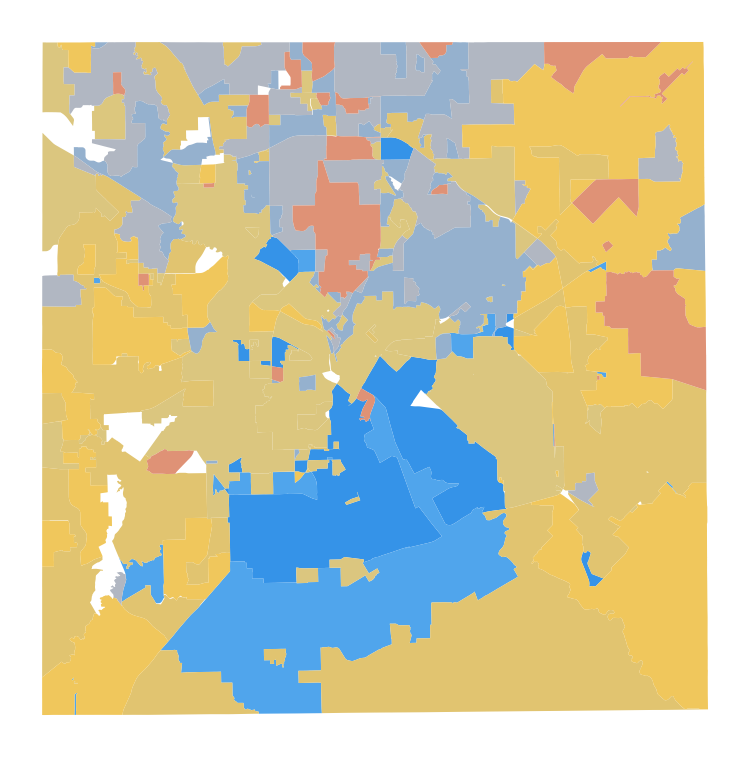
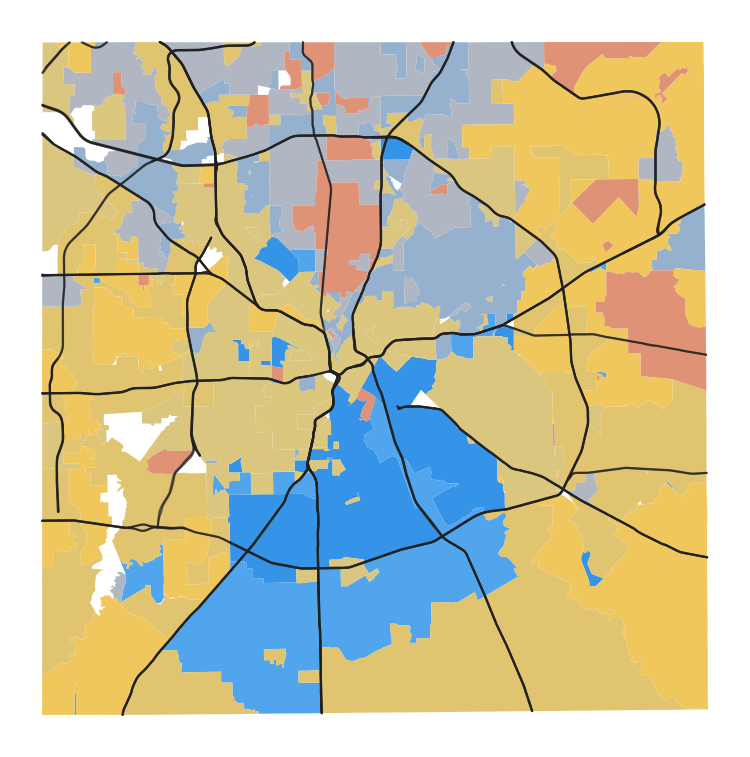
Atlas: name Dallas County's nine blocs; draw major highways on its map
Blocs, most to least Democratic: South Dallas, The Best Southwest,
Pleasant Grove and West Oak Cliff, The Urban Core, Blue-Collar Suburbs,
East Dallas and White Rock, North Dallas, Middle-Class Suburbs, The Park
Cities. The Dallas map now carries the county's freeways and tollways
(TIGER primary roads, S1100).

diff --git a/research/_atlas_fused_panels.html b/research/_atlas_fused_panels.html
@@ -770,15 +770,15 @@
     <figure class="atlas-pca"><img loading="lazy" src="../files/images/research/atlas-fused/dallas_pca.gif" alt="Rotating three-dimensional plot of Dallas County precincts on their first three Jensen-Shannon principal coordinates, colored by voting bloc, with numbered bloc centroids.">
       <figcaption>Precincts on the first three principal coordinates of their voting (PC1 34% of variation). Numbers mark bloc centers. <strong>Click the plot</strong> to color the same points by density, race and education.</figcaption></figure>
     <ol class="atlas-blocs">
-      <li><span class="bloc-swatch" style="background:#3593E8;color:#fff">1</span><span class="bloc-name">Bloc 1</span><span class="bloc-meta">70 precincts &middot; Biden 2020 94%</span></li>
-      <li><span class="bloc-swatch" style="background:#50A5EC;color:#111">2</span><span class="bloc-name">Bloc 2</span><span class="bloc-meta">55 precincts &middot; Biden 2020 86%</span></li>
-      <li><span class="bloc-swatch" style="background:#DBC67F;color:#111">3</span><span class="bloc-name">Bloc 3</span><span class="bloc-meta">109 precincts &middot; Biden 2020 82%</span></li>
-      <li><span class="bloc-swatch" style="background:#DCC77E;color:#111">4</span><span class="bloc-name">Bloc 4</span><span class="bloc-meta">90 precincts &middot; Biden 2020 76%</span></li>
-      <li><span class="bloc-swatch" style="background:#E1C470;color:#111">5</span><span class="bloc-name">Bloc 5</span><span class="bloc-meta">110 precincts &middot; Biden 2020 70%</span></li>
-      <li><span class="bloc-swatch" style="background:#95B1CE;color:#111">6</span><span class="bloc-name">Bloc 6</span><span class="bloc-meta">101 precincts &middot; Biden 2020 66%</span></li>
-      <li><span class="bloc-swatch" style="background:#B1B7C2;color:#111">7</span><span class="bloc-name">Bloc 7</span><span class="bloc-meta">103 precincts &middot; Biden 2020 56%</span></li>
-      <li><span class="bloc-swatch" style="background:#F0C75C;color:#111">8</span><span class="bloc-name">Bloc 8</span><span class="bloc-meta">131 precincts &middot; Biden 2020 56%</span></li>
-      <li><span class="bloc-swatch" style="background:#DF9276;color:#111">9</span><span class="bloc-name">Bloc 9</span><span class="bloc-meta">51 precincts &middot; Biden 2020 40%</span></li>
+      <li><span class="bloc-swatch" style="background:#3593E8;color:#fff">1</span><span class="bloc-name">South Dallas</span><span class="bloc-meta">70 precincts &middot; Biden 2020 94%</span></li>
+      <li><span class="bloc-swatch" style="background:#50A5EC;color:#111">2</span><span class="bloc-name">The Best Southwest</span><span class="bloc-meta">55 precincts &middot; Biden 2020 86%</span></li>
+      <li><span class="bloc-swatch" style="background:#DBC67F;color:#111">3</span><span class="bloc-name">Pleasant Grove and West Oak Cliff</span><span class="bloc-meta">109 precincts &middot; Biden 2020 82%</span></li>
+      <li><span class="bloc-swatch" style="background:#DCC77E;color:#111">4</span><span class="bloc-name">The Urban Core</span><span class="bloc-meta">90 precincts &middot; Biden 2020 76%</span></li>
+      <li><span class="bloc-swatch" style="background:#E1C470;color:#111">5</span><span class="bloc-name">Blue-Collar Suburbs</span><span class="bloc-meta">110 precincts &middot; Biden 2020 70%</span></li>
+      <li><span class="bloc-swatch" style="background:#95B1CE;color:#111">6</span><span class="bloc-name">East Dallas and White Rock</span><span class="bloc-meta">101 precincts &middot; Biden 2020 66%</span></li>
+      <li><span class="bloc-swatch" style="background:#B1B7C2;color:#111">7</span><span class="bloc-name">North Dallas</span><span class="bloc-meta">103 precincts &middot; Biden 2020 56%</span></li>
+      <li><span class="bloc-swatch" style="background:#F0C75C;color:#111">8</span><span class="bloc-name">Middle-Class Suburbs</span><span class="bloc-meta">131 precincts &middot; Biden 2020 56%</span></li>
+      <li><span class="bloc-swatch" style="background:#DF9276;color:#111">9</span><span class="bloc-name">The Park Cities</span><span class="bloc-meta">51 precincts &middot; Biden 2020 40%</span></li>
     </ol>
     <figure class="atlas-state-map"><div class="atlas-zoom"><img loading="lazy" src="../files/images/research/atlas-fused/dallas_map.png" data-hi="../files/images/research/atlas-fused/dallas_map_hi.png" data-lines="../files/images/research/atlas/dallas_lines.png" data-labels="../files/images/research/atlas/dallas_labels.json" data-index="../files/images/research/atlas-profiles/dallas_index.png" data-profile="../files/images/research/atlas-profiles/dallas_profile.json" alt="Map of Dallas County precincts colored by voting bloc (9 blocs)." draggable="false"></div><figcaption>Scroll, pinch or double-click to zoom; drag to pan. Zoom in for boundaries and town names. <strong>Click a bloc</strong> in the list or on the map for its demographic profile.</figcaption></figure>
   </div>

diff --git a/research/_atlas_panels.html b/research/_atlas_panels.html
@@ -770,15 +770,15 @@
     <figure class="atlas-pca"><img loading="lazy" src="../files/images/research/atlas/dallas_pca.gif" alt="Rotating three-dimensional plot of Dallas County precincts on their first three Jensen-Shannon principal coordinates, colored by voting bloc, with numbered bloc centroids.">
       <figcaption>Precincts on the first three principal coordinates of their voting (PC1 34% of variation). Numbers mark bloc centers. <strong>Click the plot</strong> to color the same points by density, race and education.</figcaption></figure>
     <ol class="atlas-blocs">
-      <li><span class="bloc-swatch" style="background:#C682EC;color:#111">1</span><span class="bloc-name">Bloc 1</span><span class="bloc-meta">70 precincts &middot; Biden 2020 94%</span></li>
-      <li><span class="bloc-swatch" style="background:#749CF2;color:#111">2</span><span class="bloc-name">Bloc 2</span><span class="bloc-meta">55 precincts &middot; Biden 2020 86%</span></li>
-      <li><span class="bloc-swatch" style="background:#00B1DB;color:#111">3</span><span class="bloc-name">Bloc 3</span><span class="bloc-meta">109 precincts &middot; Biden 2020 82%</span></li>
-      <li><span class="bloc-swatch" style="background:#00BAAF;color:#111">4</span><span class="bloc-name">Bloc 4</span><span class="bloc-meta">90 precincts &middot; Biden 2020 76%</span></li>
-      <li><span class="bloc-swatch" style="background:#00B874;color:#111">5</span><span class="bloc-name">Bloc 5</span><span class="bloc-meta">110 precincts &middot; Biden 2020 70%</span></li>
-      <li><span class="bloc-swatch" style="background:#6CAF20;color:#111">6</span><span class="bloc-name">Bloc 6</span><span class="bloc-meta">101 precincts &middot; Biden 2020 66%</span></li>
-      <li><span class="bloc-swatch" style="background:#ACA100;color:#111">7</span><span class="bloc-name">Bloc 7</span><span class="bloc-meta">103 precincts &middot; Biden 2020 56%</span></li>
-      <li><span class="bloc-swatch" style="background:#D58F35;color:#111">8</span><span class="bloc-name">Bloc 8</span><span class="bloc-meta">131 precincts &middot; Biden 2020 56%</span></li>
-      <li><span class="bloc-swatch" style="background:#EC7D82;color:#111">9</span><span class="bloc-name">Bloc 9</span><span class="bloc-meta">51 precincts &middot; Biden 2020 40%</span></li>
+      <li><span class="bloc-swatch" style="background:#C682EC;color:#111">1</span><span class="bloc-name">South Dallas</span><span class="bloc-meta">70 precincts &middot; Biden 2020 94%</span></li>
+      <li><span class="bloc-swatch" style="background:#749CF2;color:#111">2</span><span class="bloc-name">The Best Southwest</span><span class="bloc-meta">55 precincts &middot; Biden 2020 86%</span></li>
+      <li><span class="bloc-swatch" style="background:#00B1DB;color:#111">3</span><span class="bloc-name">Pleasant Grove and West Oak Cliff</span><span class="bloc-meta">109 precincts &middot; Biden 2020 82%</span></li>
+      <li><span class="bloc-swatch" style="background:#00BAAF;color:#111">4</span><span class="bloc-name">The Urban Core</span><span class="bloc-meta">90 precincts &middot; Biden 2020 76%</span></li>
+      <li><span class="bloc-swatch" style="background:#00B874;color:#111">5</span><span class="bloc-name">Blue-Collar Suburbs</span><span class="bloc-meta">110 precincts &middot; Biden 2020 70%</span></li>
+      <li><span class="bloc-swatch" style="background:#6CAF20;color:#111">6</span><span class="bloc-name">East Dallas and White Rock</span><span class="bloc-meta">101 precincts &middot; Biden 2020 66%</span></li>
+      <li><span class="bloc-swatch" style="background:#ACA100;color:#111">7</span><span class="bloc-name">North Dallas</span><span class="bloc-meta">103 precincts &middot; Biden 2020 56%</span></li>
+      <li><span class="bloc-swatch" style="background:#D58F35;color:#111">8</span><span class="bloc-name">Middle-Class Suburbs</span><span class="bloc-meta">131 precincts &middot; Biden 2020 56%</span></li>
+      <li><span class="bloc-swatch" style="background:#EC7D82;color:#111">9</span><span class="bloc-name">The Park Cities</span><span class="bloc-meta">51 precincts &middot; Biden 2020 40%</span></li>
     </ol>
     <figure class="atlas-state-map"><div class="atlas-zoom"><img loading="lazy" src="../files/images/research/atlas/dallas_map.png" data-hi="../files/images/research/atlas/dallas_map_hi.png" data-lines="../files/images/research/atlas/dallas_lines.png" data-labels="../files/images/research/atlas/dallas_labels.json" alt="Map of Dallas County precincts colored by voting bloc (9 blocs)." draggable="false"></div><figcaption>Scroll, pinch or double-click to zoom; drag to pan. Zoom in for boundaries and town names.</figcaption></figure>
   </div>
